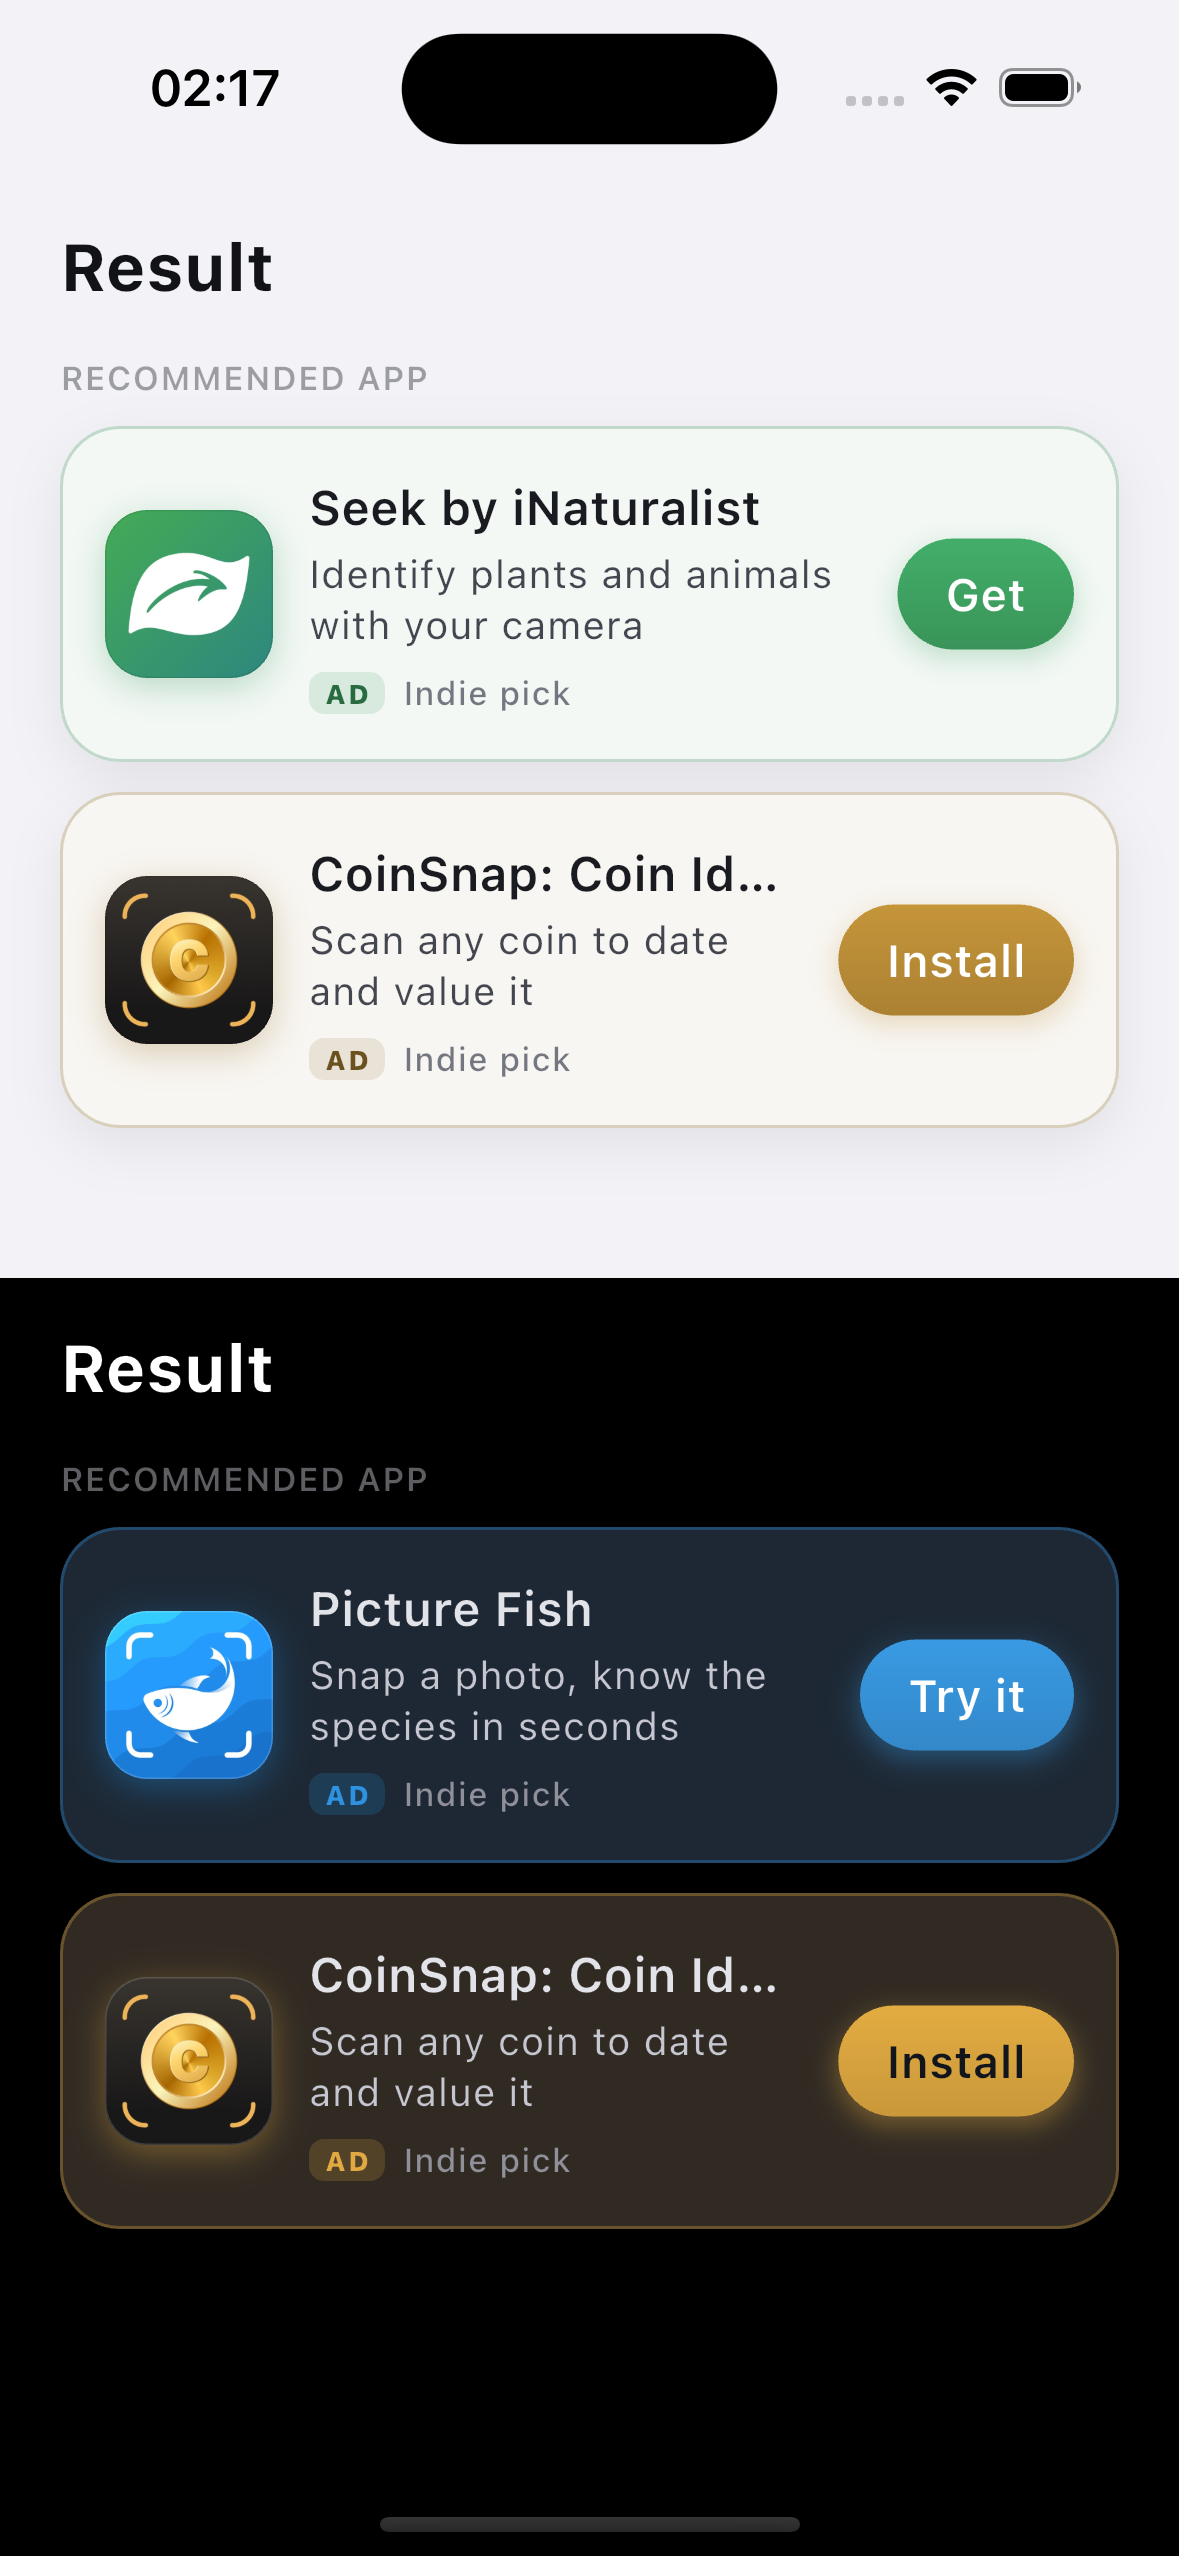
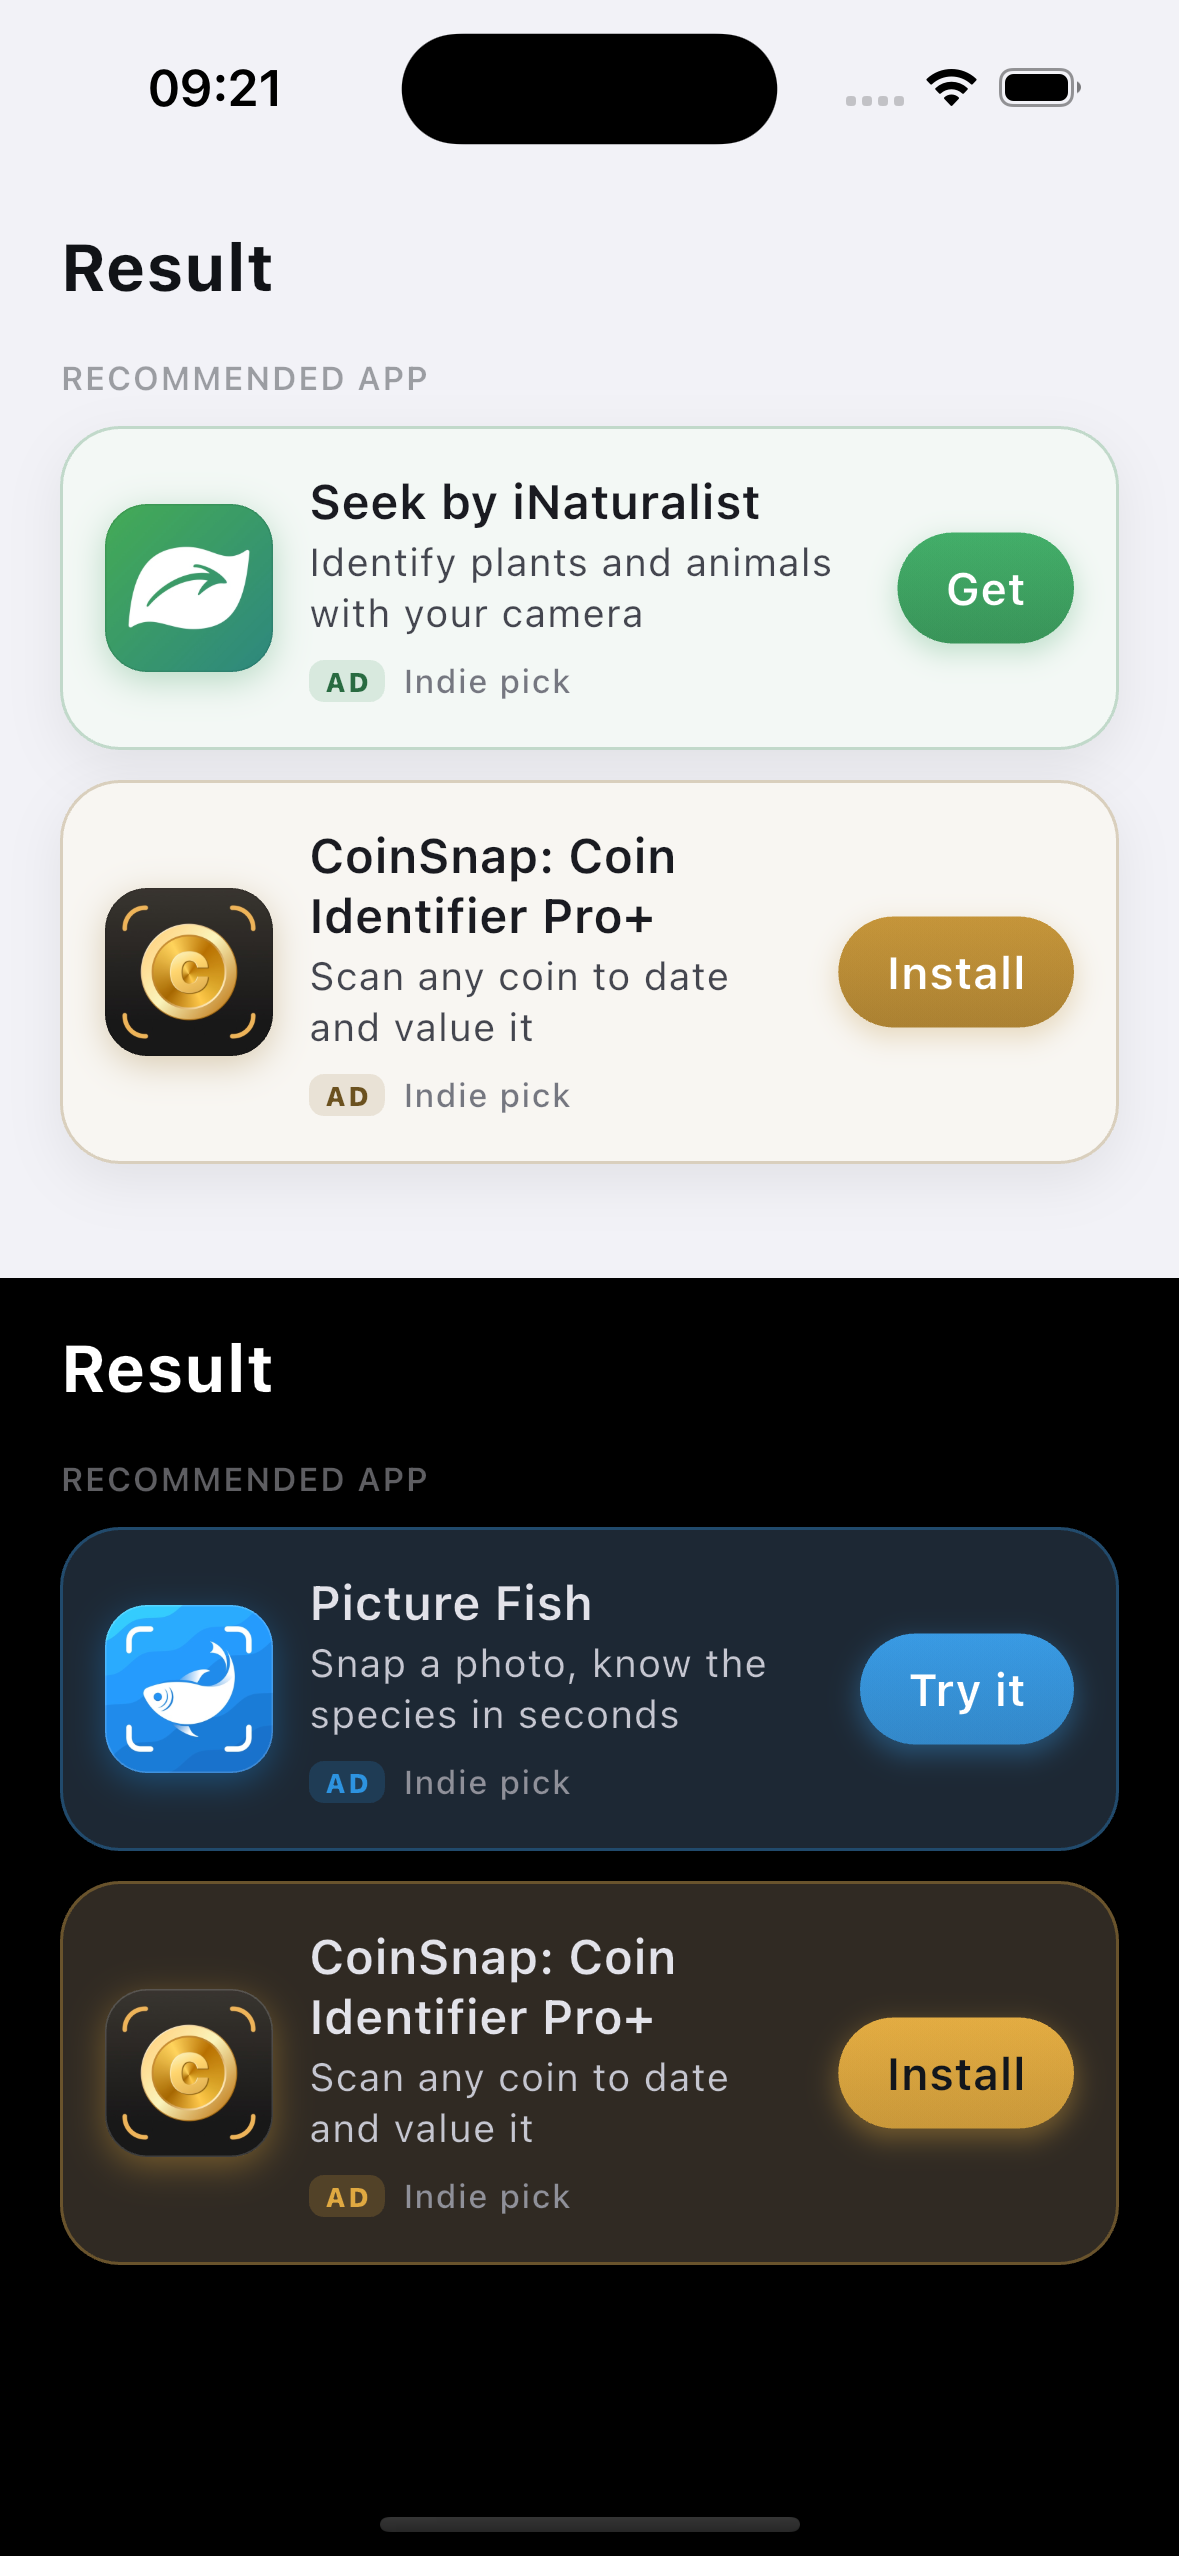
Let app names wrap to two lines so titles never truncate
App names up to 30 characters now display in full: the name label wraps
to a second line with tightened leading instead of ellipsizing, and the
card grows to fit. Applied on iOS, Flutter, and React Native; the
simulator reference image now shows a full 30-character title.

diff --git a/packages/crosspromo-react-native/lib/PromoCard.js b/packages/crosspromo-react-native/lib/PromoCard.js
@@ -132,7 +132,7 @@ function PromoCard({ placement, style, onError, onLoaded, }) {
                             ], children: (0, jsx_runtime_1.jsx)(react_native_1.Image, { source: { uri: card.iconUrl }, style: [
                                     styles.icon,
                                     darkTheme ? styles.iconDark : styles.iconLight,
-                                ] }) }), (0, jsx_runtime_1.jsxs)(react_native_1.View, { style: styles.copy, children: [(0, jsx_runtime_1.jsx)(react_native_1.Text, { style: [styles.appName, { color: palette.appName }], numberOfLines: 1, children: card.appName }), (0, jsx_runtime_1.jsx)(react_native_1.Text, { style: [styles.tagline, { color: palette.tagline }], numberOfLines: 2, children: card.tagline }), (0, jsx_runtime_1.jsxs)(react_native_1.View, { style: styles.disclosureRow, children: [(0, jsx_runtime_1.jsx)(react_native_1.Animated.View, { style: [styles.adChip, { backgroundColor: chipBackground }], children: (0, jsx_runtime_1.jsx)(react_native_1.Text, { style: [styles.adChipText, { color: palette.chipText }], children: "AD" }) }), (0, jsx_runtime_1.jsx)(react_native_1.Text, { style: [styles.disclosure, { color: palette.disclosure }], numberOfLines: 1, children: "Indie pick" })] })] }), (0, jsx_runtime_1.jsx)(react_native_1.Animated.View, { style: [
+                                ] }) }), (0, jsx_runtime_1.jsxs)(react_native_1.View, { style: styles.copy, children: [(0, jsx_runtime_1.jsx)(react_native_1.Text, { style: [styles.appName, { color: palette.appName }], numberOfLines: 2, children: card.appName }), (0, jsx_runtime_1.jsx)(react_native_1.Text, { style: [styles.tagline, { color: palette.tagline }], numberOfLines: 2, children: card.tagline }), (0, jsx_runtime_1.jsxs)(react_native_1.View, { style: styles.disclosureRow, children: [(0, jsx_runtime_1.jsx)(react_native_1.Animated.View, { style: [styles.adChip, { backgroundColor: chipBackground }], children: (0, jsx_runtime_1.jsx)(react_native_1.Text, { style: [styles.adChipText, { color: palette.chipText }], children: "AD" }) }), (0, jsx_runtime_1.jsx)(react_native_1.Text, { style: [styles.disclosure, { color: palette.disclosure }], numberOfLines: 1, children: "Indie pick" })] })] }), (0, jsx_runtime_1.jsx)(react_native_1.Animated.View, { style: [
                                 styles.cta,
                                 { backgroundColor: ctaBackground },
                                 react_native_1.Platform.OS === 'ios' && {
@@ -227,7 +227,7 @@ const styles = react_native_1.StyleSheet.create({
     iconLight: { borderColor: 'rgba(0,0,0,0.08)' },
     iconDark: { borderColor: 'rgba(255,255,255,0.16)' },
     copy: { flex: 1, marginHorizontal: 12 },
-    appName: { fontSize: 16, fontWeight: '600' },
+    appName: { fontSize: 16, fontWeight: '600', lineHeight: 20 },
     tagline: { fontSize: 13, marginTop: 2 },
     disclosureRow: {
         flexDirection: 'row',

diff --git a/packages/crosspromo-react-native/src/PromoCard.tsx b/packages/crosspromo-react-native/src/PromoCard.tsx
@@ -182,7 +182,7 @@ export function PromoCard({
             <View style={styles.copy}>
               <Text
                 style={[styles.appName, { color: palette.appName }]}
-                numberOfLines={1}
+                numberOfLines={2}
               >
                 {card.appName}
               </Text>
@@ -343,7 +343,7 @@ const styles = StyleSheet.create({
   iconLight: { borderColor: 'rgba(0,0,0,0.08)' },
   iconDark: { borderColor: 'rgba(255,255,255,0.16)' },
   copy: { flex: 1, marginHorizontal: 12 },
-  appName: { fontSize: 16, fontWeight: '600' },
+  appName: { fontSize: 16, fontWeight: '600', lineHeight: 20 },
   tagline: { fontSize: 13, marginTop: 2 },
   disclosureRow: {
     flexDirection: 'row',

diff --git a/packages/crosspromo-flutter/lib/src/promo_card.dart b/packages/crosspromo-flutter/lib/src/promo_card.dart
@@ -164,11 +164,12 @@ class _PromoCardState extends State<PromoCard> {
                           children: [
                             Text(
                               card.appName,
-                              maxLines: 1,
+                              maxLines: 2,
                               overflow: TextOverflow.ellipsis,
                               style: theme.textTheme.titleMedium?.copyWith(
                                 fontSize: 16,
                                 fontWeight: FontWeight.w600,
+                                height: 1.25,
                               ),
                             ),
                             const SizedBox(height: 2),

diff --git a/packages/crosspromo-ios/Sources/CrossPromo/CrossPromoCard.swift b/packages/crosspromo-ios/Sources/CrossPromo/CrossPromoCard.swift
@@ -96,7 +96,7 @@ public final class CrossPromoCardUIView: UIView {
             .scaledFont(for: .systemFont(ofSize: 16, weight: .semibold))
         appNameLabel.adjustsFontForContentSizeCategory = true
         appNameLabel.textColor = .label
-        appNameLabel.numberOfLines = 1
+        appNameLabel.numberOfLines = 2
         taglineLabel.font = UIFontMetrics(forTextStyle: .subheadline)
             .scaledFont(for: .systemFont(ofSize: 13))
         taglineLabel.adjustsFontForContentSizeCategory = true